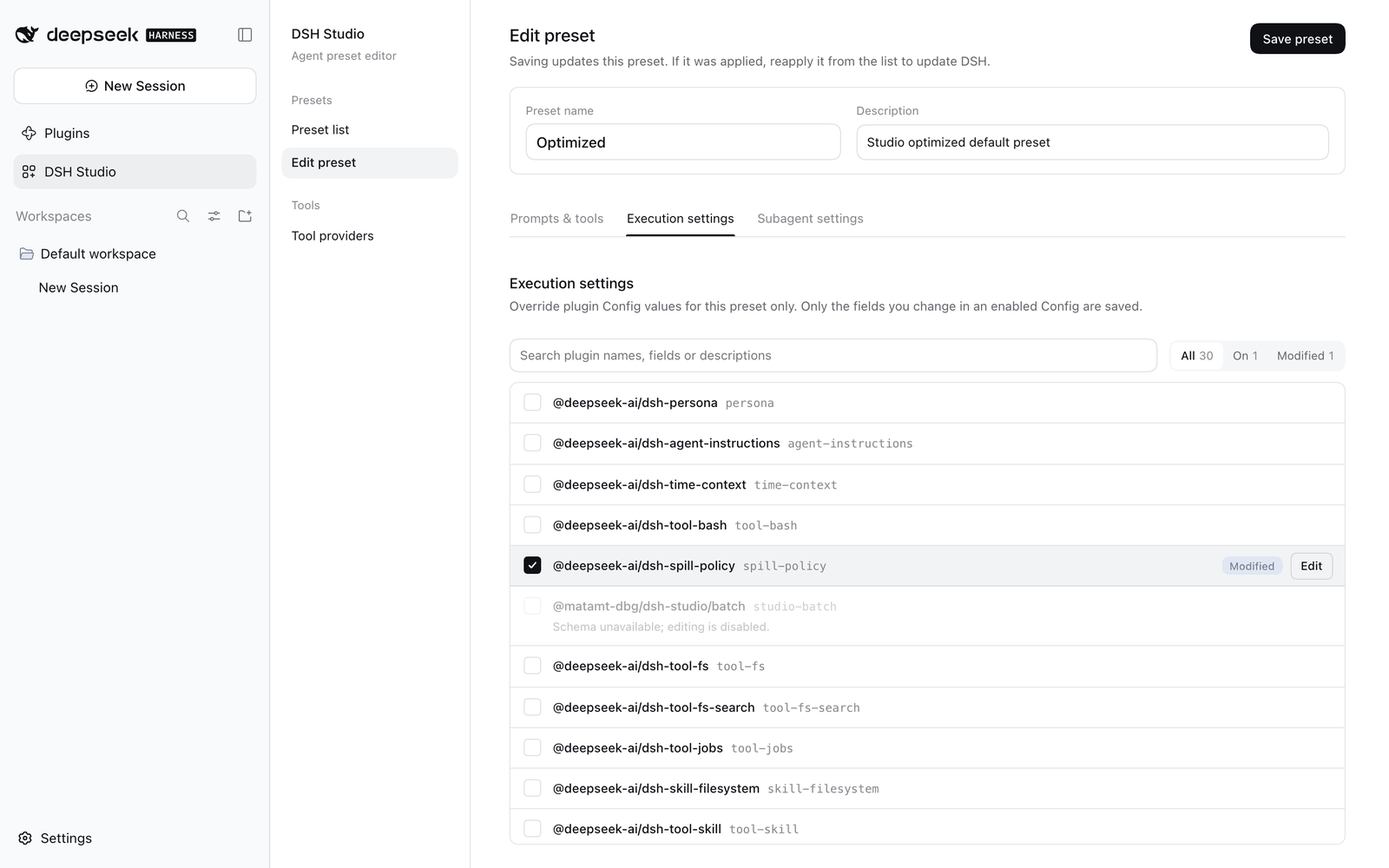
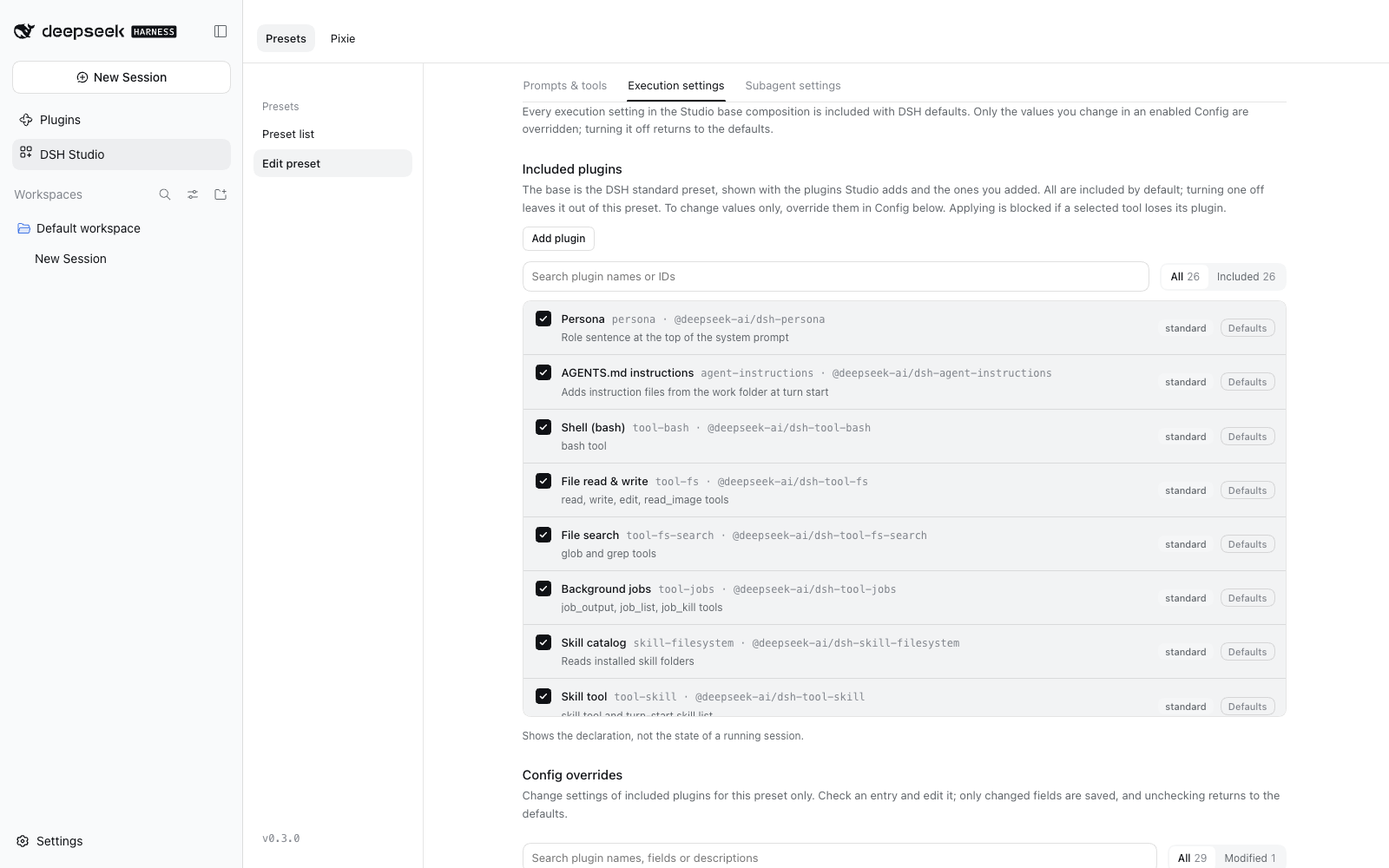
release: 0.3.0

diff --git a/src/optimization-prototype.tsx b/src/optimization-prototype.tsx
@@ -66,7 +66,7 @@ export function OptimizationPrototype({ locale, catalog, catalogError, onPreview
   const agentPage = <RoleEditor key={draftKey} locale={locale} roles={agents} onChange={setAgents} loadModels={presetActions?.models} defaultPersona={defaultPersona} tools={toolChoices} hiddenTools={hiddenFromSubagents} onHiddenToolsChange={setHiddenFromSubagents} delegates={delegates} />;
   const tabs = [
     { id: 'tools', label: t('프롬프트·도구', 'Prompts & tools', '提示词与工具'), content: <PromptToolsPrototype key={draftKey} initialRequest={editing?.request} locale={locale} catalog={catalog} catalogError={catalogError} onPreview={onPreview ? request => onPreview({ ...request, configOverrides, ...(configExclusions.length ? { configExclusions } : {}) }) : undefined} configOverrides={configOverrides} onConfigOverridesChange={setConfigDraft} previewKey={JSON.stringify([configOverrides, configExclusions])} onRequestChange={setRequest} prompt={common.prompt} onPromptChange={value => setCommon(c => ({ ...c, prompt: value }))} provided={provided} onProvidedChange={setProvided} /> },
-    { id: 'convenience', label: t('실행 설정', 'Execution settings', '执行设置'), content: <><SectionHead title={t('실행 설정', 'Execution settings', '执行设置')} description={t('Studio 기준 구성의 실행 설정은 모두 DSH 기본값으로 포함됩니다. 켠 Config에서 바꾼 값만 덮어쓰고, 끄면 기본값으로 돌아갑니다.', 'Every execution setting in the Studio base composition is included with DSH defaults. Only the values you change in an enabled Config are overridden; turning it off returns to the defaults.', 'Studio 基础组成中的执行设置均以 DSH 默认值包含。只覆盖已启用 Config 中修改的值；关闭即恢复默认值')} /><FeatureInclusion locale={locale} entries={catalog?.plugins ?? []} overrides={configOverrides} excluded={configExclusions} origins={catalog?.origins} base={catalog?.base} added={catalog?.added} actions={extensionActions} onChange={next => { setConfigDraft(next.overrides); setConfigExclusions(next.excluded); }} /><ConfigEditor locale={locale} entries={(catalog?.plugins ?? []).filter(entry => !configExclusions.includes(entry.id))} value={configOverrides} onChange={setConfigDraft} /></> },
+    { id: 'convenience', label: t('실행 설정', 'Execution settings', '执行设置'), content: <><SectionHead title={t('실행 설정', 'Execution settings', '执行设置')} description={t('Studio 기준 구성의 실행 설정은 모두 DSH 기본값으로 포함됩니다. 켠 Config에서 바꾼 값만 덮어쓰고, 끄면 기본값으로 돌아갑니다.', 'Every execution setting in the Studio base composition is included with DSH defaults. Only the values you change in an enabled Config are overridden; turning it off returns to the defaults.', 'Studio 基础组成中的执行设置均以 DSH 默认值包含。只覆盖已启用 Config 中修改的值；关闭即恢复默认值')} /><FeatureInclusion locale={locale} entries={catalog?.plugins ?? []} overrides={configOverrides} excluded={configExclusions} origins={catalog?.origins} base={catalog?.base} added={catalog?.added} actions={extensionActions} onChange={next => { setConfigDraft(next.overrides); setConfigExclusions(next.excluded); }} /><SectionHead title={t('Config 덮어쓰기', 'Config overrides', 'Config 覆盖')} description={t('포함된 플러그인의 설정값을 이 프리셋에서만 바꿉니다. 항목을 켜고 설정에서 바꾼 필드만 저장되며, 끄면 기본값으로 돌아갑니다.', 'Change settings of included plugins for this preset only. Check an entry and edit it; only changed fields are saved, and unchecking returns to the defaults.', '仅为此预设修改已包含插件的设置。启用条目并编辑，只保存修改的字段；关闭即恢复默认值')} /><ConfigEditor locale={locale} entries={(catalog?.plugins ?? []).filter(entry => !configExclusions.includes(entry.id))} value={configOverrides} onChange={setConfigDraft} /></> },
     { id: 'agents', label: t('서브에이전트', 'Subagent settings', '子代理设置'), content: agentPage },
   ];
   const tabId = React.useId();

diff --git a/src/preset-manager.tsx b/src/preset-manager.tsx
@@ -81,7 +81,7 @@ export function PresetList({ locale, api, revision, onEdit, onCopy, changes }: {
       {item.missingFeatures && item.missingFeatures.length > 0 && <div className="studio-inline-actions"><Badge tone="warning">{t('기능 누락', 'Missing features', '缺少功能')}</Badge><span className="studio-card-meta">{item.missingFeatures.map(name => featureLabel(name, locale)).join(', ')}</span>
         <Button small disabled={busy || !api || !!item.readOnly} onClick={() => setRecovering(item)}>{t('복구', 'Restore', '恢复')}</Button></div>}
       <p className="studio-card-meta">{t('도구', 'Tools', '工具')} {item.request.tools.length} · {t('서브에이전트 역할', 'Subagent roles', '子代理角色')} {Array.isArray(item.agents) ? item.agents.length : 0}</p>
-      {item.readOnly ? <p className="studio-card-meta studio-card-note">{t('이 프로필에서 쓸 수 있는 모든 도구를 담은 기준 프리셋입니다. 편집하거나 삭제할 수 없습니다.', 'Reference preset with every tool available in this profile. It cannot be edited or deleted.', '包含此配置文件中所有可用工具的基准预设，无法编辑或删除')}</p> : <div className="studio-card-footer">
+      {item.readOnly ? <p className="studio-card-meta studio-card-note">{t('DSH standard 프리셋에 Studio 플러그인과 직접 추가한 플러그인을 더한 기준 프리셋입니다. 편집하거나 삭제할 수 없습니다.', 'Reference preset: DSH standard plus Studio plugins and the ones you added. It cannot be edited or deleted.', '基准预设：DSH standard 加上 Studio 插件和您添加的插件，无法编辑或删除')}</p> : <div className="studio-card-footer">
         <Button small disabled={busy || item.readOnly || item.template || !onEdit} title={item.template ? t('기본 제공 프리셋은 편집할 수 없습니다. 복사해서 고쳐 쓰세요.', 'Built-in presets cannot be edited. Create a copy to customize it.', '内置预设无法编辑，请创建副本后修改') : undefined} onClick={() => onEdit?.(item)}>{t('편집', 'Edit', '编辑')}</Button>
         <Button small disabled={busy || !onCopy} onClick={() => onCopy?.(item)}>{t('복사', 'Create copy', '创建副本')}</Button>
         <Button small disabled={busy || !api || item.readOnly || item.nonDeletable} title={item.nonDeletable ? t('기본 제공 프리셋은 삭제할 수 없습니다.', 'Built-in presets cannot be deleted.', '内置预设无法删除') : undefined} onClick={() => { setDeleting(item); setConfirming(true); }}>{t('삭제', 'Delete', '删除')}</Button>

diff --git a/docs/introduction.ko.md b/docs/introduction.ko.md
@@ -1,0 +1,121 @@
+# DSH Studio 소개
+
+[English](introduction.md) | 한국어
+
+DSH Studio는 DeepSeek Harness(DSH)의 **에이전트 프리셋**을 화면에서 만들고 고치는 플러그인입니다. YAML을 직접 쓰지 않고, 에이전트가 받을 지침·도구·플러그인 설정·서브에이전트 역할을 한곳에서 정한 뒤 DSH에 반영합니다. 자세한 화면 설명은 [사용 가이드](guide.ko.md)에 있습니다.
+
+## 목차
+
+- [무엇을 해결하나](#무엇을-해결하나)
+- [프리셋은 어떻게 만들어지나](#프리셋은-어떻게-만들어지나)
+- [모델이 실제로 받는 것](#모델이-실제로-받는-것)
+- [기본값, 덮어쓰기, 제외](#기본값-덮어쓰기-제외)
+- [도구는 시작 구성일 뿐 차단 목록이 아님](#도구는-시작-구성일-뿐-차단-목록이-아님)
+- [Optimized](#optimized)
+- [바뀌었을 때 Studio가 하는 일](#바뀌었을-때-studio가-하는-일)
+- [Studio가 하지 않는 것](#studio가-하지-않는-것)
+
+## 무엇을 해결하나
+
+DSH 프리셋은 플러그인 목록과 설정을 담은 선언입니다. 강력하지만 다음이 어렵습니다.
+
+- 어떤 도구와 지침이 모델에 전달되는지 미리 보기
+- 기본 프리셋을 조금만 바꾸면서 나머지는 DSH 기본값을 그대로 따르게 하기
+- 도구 설명이나 실행 기본값을 프리셋마다 다르게 하기
+- 서브에이전트를 역할별로 나누어 맡기기
+
+Studio는 이것을 화면으로 다루고, 결과를 Studio 소유의 DSH 프리셋으로 등록합니다. DSH 기본 프리셋이나 프로필의 패키지 목록은 건드리지 않습니다.
+
+## 프리셋은 어떻게 만들어지나
+
+모든 Studio 프리셋은 **Studio Master** 위에 변경분만 얹어 만듭니다.
+
+```text
+DSH standard 프리셋 (실행 중인 DSH가 선언한 그대로)
+  + Studio가 더하는 플러그인   read_batch, spill-policy, tool-cordis, plugin-manager
+  + 직접 추가한 플러그인       실행 설정 → 플러그인 추가
+  ───────────────────────────────────────────────
+  = Studio Master (읽기 전용 기준)
+
+Studio Master
+  − 포함하지 않을 플러그인     실행 설정 → 포함할 플러그인
+  + Config 덮어쓰기            바꾼 필드만
+  + 도구 선택·도구 설명 편집   프롬프트·도구
+  + 추가 지침, persona
+  + subagent_role과 역할       서브에이전트 (standard의 subagent 도구를 대체)
+  ───────────────────────────────────────────────
+  = 내 프리셋 → DSH에 반영 → 새 세션에서 선택
+```
+
+Studio Master가 DSH `standard`를 따르므로, DSH를 업데이트하면 기준도 함께 바뀝니다. 화면의 각 플러그인에는 출처 배지(`standard`, `Studio`, `추가함`)가 붙어 어디서 온 것인지 알 수 있습니다.
+
+## 모델이 실제로 받는 것
+
+세션에서 모델이 받는 내용은 종류에 따라 들어가는 시점이 다릅니다. **프롬프트 미리보기**는 이 중 세 가지를 나눠 보여 줍니다.
+
+| 종류 | 들어가는 시점 | 예 | 미리보기 |
+|---|---|---|---|
+| 시스템 프롬프트 | 매 요청 | persona, 도구 사용 지침, 추가 지침, 계획 모드 안내 | **시스템 프롬프트·도구** |
+| 도구 스키마 | 매 요청 | read, bash, subagent_role | **시스템 프롬프트·도구** |
+| 런타임 컨텍스트 | 매 요청, 시스템 프롬프트 뒤 | 권한·샌드박스 상태, 서브에이전트 위임 안내 | **런타임 컨텍스트** |
+| 턴 시작 메시지 | 턴 시작 | AGENTS.md 지침, 현재 시각, 스킬 목록 | **턴 시작 내용** (예시와 설정 편집) |
+| 도구 결과 뒤 안내 | 파일을 읽거나 고친 뒤 | 하위 폴더의 AGENTS.md | 나오지 않음 |
+| 대화 정리 | 한도에 가까울 때 | 자동 압축 요약, 긴 도구 결과 줄이기 | 나오지 않음 |
+
+AGENTS.md 지침이나 현재 시각은 시스템 프롬프트가 아니라 턴마다 대화 메시지로 들어갑니다. 그래서 내용은 실행할 때 파일과 시각에서 만들어지고, Studio에서는 그 내용을 정하는 설정(`maxBytes`, 지침 파일 후보, `timeZone` 등)을 바꿉니다.
+
+## 기본값, 덮어쓰기, 제외
+
+실행 설정의 각 플러그인은 세 상태 중 하나입니다.
+
+| 상태 | 저장되는 것 | 결과 |
+|---|---|---|
+| **기본값** | 없음 | 플러그인이 DSH 기본값으로 포함됩니다 |
+| **덮어쓰기** | 바꾼 필드만 | 포함되며 그 필드만 바뀝니다. 덮어쓰기를 끄면 기본값으로 돌아갑니다 |
+| **제외** | 제외 목록에 ID | 플러그인이 이 프리셋에서 빠집니다 |
+
+예를 들어 자동 압축을 다루는 방법은 두 가지입니다.
+
+- `compaction-basic`의 `auto`를 `false`로 **덮어쓰기**: 압축 기능과 `/compact`는 남고 자동 실행만 꺼집니다.
+- `compaction-basic`을 **제외**: 압축 기능이 빠지고, 이에 의존하는 `/compact`도 함께 빠집니다.
+
+덮어쓰기를 끄는 것은 "끄기"가 아니라 "기본값으로 돌아가기"입니다. 기능을 빼려면 포함 목록에서 체크를 끕니다.
+
+## 도구는 시작 구성일 뿐 차단 목록이 아님
+
+프리셋에서 고른 도구는 세션의 **시작 도구 구성**입니다.
+
+- 고르지 않은 도구는 세션이 시작될 때 보이지 않습니다.
+- 세션이 시작된 뒤 다른 플러그인이 새 이름으로 등록하는 도구는 DSH 기본 흐름대로 쓸 수 있습니다.
+- 예약 작업처럼 DSH가 세션마다 직접 붙이는 도구는 프리셋 도구 목록에 나오지 않지만, 켜져 있으면 세션에서 쓸 수 있습니다.
+- 고른 도구를 제공하는 플러그인을 빼면 반영 단계에서 막아, 도구가 몰래 사라지지 않게 합니다.
+
+DSH의 승인·파일 접근·서브에이전트 제한 같은 안전 정책은 Studio가 바꾸지 않습니다.
+
+## Optimized
+
+Studio에는 코딩 에이전트용 기본 프리셋 **Optimized**가 들어 있습니다.
+
+- 자주 쓰는 도구 22개로 시작 구성을 고정합니다. 다른 플러그인을 설치해도 선택이 늘어나지 않습니다.
+- 서브에이전트 도구를 `subagent_role` 하나로 합칩니다.
+- 독립적인 읽기를 묶고, 백그라운드 작업을 폴링하지 않고 기다리며, 확인 범위를 작업에 맞추도록 지침과 도구 설명을 다듬었습니다.
+- 대화 압축, AGENTS.md 지침, 스킬 목록 같은 `standard`의 기능은 그대로 포함됩니다.
+
+Optimized는 잠겨 있고 Studio가 시작할 때마다 다시 맞춥니다. 고치려면 복사해서 씁니다. 방법은 [Optimized를 내 작업에 맞게 고치기](guide.ko.md#optimized를-내-작업에-맞게-고치기)를 보세요.
+
+## 바뀌었을 때 Studio가 하는 일
+
+| 상황 | Studio의 동작 |
+|---|---|
+| DSH 업데이트, 플러그인 설치·삭제로 도구나 플러그인이 바뀜 | 다음 시작 때 목록 위에 변경 안내(`+` 추가, `-` 제거, `~` 형식 변경). **확인하고 정리**를 누르기 전에는 프리셋을 바꾸지 않습니다 |
+| 정리를 확인함 | 사라진 항목의 선택·설명·덮어쓰기만 지우고, 반영된 프리셋은 **다시 반영 필요**로 표시합니다 |
+| 수집이 일부 실패함 | 이전 기준을 그대로 두고, 아무것도 지우지 않습니다 |
+| 이전 버전이 기능을 빠뜨리고 반영함 | 카드에 **기능 누락**을 표시하고, **복구**로 확인 후 다시 반영합니다 |
+| 이미 실행 중인 세션 | 프리셋 편집은 자동으로 적용되지 않습니다. 새 세션부터 적용됩니다 |
+
+## Studio가 하지 않는 것
+
+- DSH 본체나 다른 프리셋을 수정하지 않습니다.
+- 패키지를 설치하지 않습니다. 플러그인은 프로필에 먼저 설치해야 합니다.
+- 압축 알고리즘이나 도구 동작을 바꾸지 않습니다. 설명과 설정만 바꿉니다.
+- 실행 중인 세션을 다시 구성하지 않습니다.

diff --git a/docs/introduction.md b/docs/introduction.md
@@ -1,0 +1,121 @@
+# DSH Studio introduction
+
+English | [한국어](introduction.ko.md)
+
+DSH Studio is a plugin for building and editing DeepSeek Harness (DSH) **agent presets** on screen. Instead of writing YAML, you set the instructions, tools, plugin settings and subagent roles an agent gets in one place, then apply the result to DSH. The [user guide](guide.md) walks through each screen.
+
+## Contents
+
+- [What it solves](#what-it-solves)
+- [How a preset is built](#how-a-preset-is-built)
+- [What the model actually receives](#what-the-model-actually-receives)
+- [Defaults, overrides and exclusions](#defaults-overrides-and-exclusions)
+- [Tools are a starting set, not a block list](#tools-are-a-starting-set-not-a-block-list)
+- [Optimized](#optimized)
+- [What Studio does when things change](#what-studio-does-when-things-change)
+- [What Studio does not do](#what-studio-does-not-do)
+
+## What it solves
+
+A DSH preset is a declaration of plugins and their settings. It is powerful, but some things are hard:
+
+- seeing in advance which tools and instructions reach the model;
+- changing a stock preset a little while everything else keeps following DSH defaults;
+- giving each preset its own tool descriptions and execution defaults;
+- splitting delegation across subagent roles.
+
+Studio handles these on screen and registers the result as a Studio-owned DSH preset. It does not touch DSH's own presets or your profile's package list.
+
+## How a preset is built
+
+Every Studio preset is Studio Master plus the differences you choose.
+
+```text
+DSH standard preset (as the running DSH declares it)
+  + plugins Studio adds        read_batch, spill-policy, tool-cordis, plugin-manager
+  + plugins you add            Execution settings → Add plugin
+  ───────────────────────────────────────────────
+  = Studio Master (read-only base)
+
+Studio Master
+  − plugins you leave out      Execution settings → Included plugins
+  + Config overrides           changed fields only
+  + tool selection and edits   Prompts & tools
+  + additional instructions, persona
+  + subagent_role and roles    Subagent settings (replaces standard's subagent tools)
+  ───────────────────────────────────────────────
+  = your preset → Apply to DSH → choose it in a new session
+```
+
+Because Studio Master follows DSH `standard`, the base moves with DSH updates. Each plugin on screen carries an origin badge (`standard`, `Studio`, `Added`).
+
+## What the model actually receives
+
+What a session sends the model arrives at different times depending on its kind. **Preview prompt** shows three of them separately.
+
+| Kind | When | Examples | Preview |
+|---|---|---|---|
+| System prompt | every request | persona, tool usage guidance, additional instructions, plan mode | **System prompt & tools** |
+| Tool schemas | every request | read, bash, subagent_role | **System prompt & tools** |
+| Runtime context | every request, after the system prompt | permissions and sandbox state, delegation notes | **Runtime context** |
+| Turn-start messages | each turn start | AGENTS.md instructions, current time, skill list | **Turn start** (examples and settings) |
+| Notes after tool results | after reading or editing files | a subfolder AGENTS.md | not shown |
+| Conversation upkeep | near the context limit | compaction summaries, trimmed tool results | not shown |
+
+AGENTS.md instructions and the current time are not part of the system prompt; they enter as conversation messages each turn. Their text comes from files and the clock at run time, so in Studio you change the settings that shape it (`maxBytes`, instruction file candidates, `timeZone` and so on).
+
+## Defaults, overrides and exclusions
+
+Each plugin in Execution settings is in one of three states.
+
+| State | What is saved | Result |
+|---|---|---|
+| **Defaults** | nothing | the plugin is included with DSH defaults |
+| **Override** | changed fields only | included, with only those fields changed; turning the override off returns to the defaults |
+| **Excluded** | its ID in the exclusion list | the plugin is left out of this preset |
+
+For example, there are two ways to handle automatic compaction:
+
+- **Override** `auto` to `false` on `compaction-basic`: compaction and `/compact` stay; only the automatic run stops.
+- **Exclude** `compaction-basic`: compaction leaves, and `/compact`, which depends on it, leaves too.
+
+Turning an override off means "back to the default", not "off". To leave a feature out, uncheck it in Included plugins.
+
+## Tools are a starting set, not a block list
+
+The tools a preset selects are the session's **starting tool set**.
+
+- Unselected tools are hidden when the session starts.
+- Tools another plugin registers under a new name after the session starts follow DSH's normal flow and can be used.
+- Tools DSH attaches to each session directly, such as schedules, do not appear in the preset tool list but can be used when enabled.
+- Leaving out a plugin that provides a selected tool is blocked at apply time, so tools never disappear silently.
+
+Studio does not change DSH's safety policies such as approvals, file access and subagent limits.
+
+## Optimized
+
+Studio ships **Optimized**, a built-in preset for coding agents.
+
+- It fixes a starting set of 22 everyday tools; installing more plugins never enlarges the selection.
+- It folds subagent tools into a single `subagent_role`.
+- Its instructions and tool descriptions are tuned so the model batches independent reads, waits on background work instead of polling, and keeps checks proportional to the task.
+- `standard` features such as compaction, AGENTS.md instructions and the skill catalog stay included.
+
+Optimized is locked and realigned each time Studio starts. Copy it to customize; see [Adapt Optimized to your work](guide.md#adapt-optimized-to-your-work).
+
+## What Studio does when things change
+
+| Situation | What Studio does |
+|---|---|
+| A DSH update or a plugin install or removal changes tools or plugins | On the next start, a notice above the list (`+` added, `-` removed, `~` schema changed). Presets do not change until you select **Confirm and clean** |
+| You confirm the cleanup | Only the missing items' selections, descriptions and overrides are removed; applied presets are marked **Needs reapply** |
+| Part of the collection fails | The previous baseline is kept and nothing is deleted |
+| An earlier version applied a preset without some features | The card shows **Missing features**; **Restore** reapplies after you confirm |
+| A session is already running | Preset edits are not applied to it; they take effect in new sessions |
+
+## What Studio does not do
+
+- It does not modify DSH itself or other presets.
+- It does not install packages; install plugins in the profile first.
+- It does not change compaction algorithms or tool behavior; it changes descriptions and settings.
+- It does not reconfigure running sessions.

diff --git a/docs/guide.md b/docs/guide.md
@@ -2,7 +2,7 @@
 
 English | [한국어](guide.ko.md)
 
-DSH Studio is a page inside the DeepSeek Harness web GUI for building **agent presets**: which tools an agent sees, what instructions it starts with, how its plugins are configured, and which specialist subagents it can delegate to. A preset you apply appears in DSH's preset picker for new sessions.
+DSH Studio is a page inside the DeepSeek Harness web GUI for building **agent presets**: which tools an agent sees, what instructions it starts with, how its plugins are configured, and which specialist subagents it can delegate to. A preset you apply appears in DSH's preset picker for new sessions. For the overall model, read the [introduction](introduction.md) first.
 
 - [Install and open Studio](#install-and-open-studio)
 - [Preset list](#preset-list)
@@ -104,6 +104,8 @@ Edited tools are marked **Modified**. Changes apply to this preset only.
 - **Runtime context**: the current state appended after the system prompt on every request (permissions, sandbox and so on), by plugin. It depends on session state, so the values are examples.
 - **Turn start**: the AGENTS.md instructions, current time and skill list added as conversation messages at each turn. They are examples made with the folder and time Studio runs in now. The text comes from files or the clock and cannot be edited; the settings that shape it (`timeZone`, `maxBytes`, instruction file candidates and so on) are editable right below. They are the same values as Execution settings, and **Reset** returns to the default.
 
+![Turn start](images/en/preview-turn-start.png)
+
 Content that appears only while running, such as notes after tool results (a subfolder AGENTS.md) or compaction summaries, is not previewed. If you change settings while the preview is open, it tells you to run it again.
 
 ### Execution settings
@@ -112,7 +114,13 @@ Content that appears only while running, such as notes after tool results (a sub
 
 Execution settings has two parts.
 
+![Included plugins with automatic compaction left out](images/en/plugin-exclusion.png)
+
 **Included plugins**: every plugin in Studio Master is included in the preset by default. Each row shows its origin (`standard`, `Studio`, `Added`) and state (**Defaults**, **Override**, **Excluded**). Uncheck a row to leave that plugin out of this preset. Plugins that need it leave with it (removing automatic compaction also removes `/compact`). Applying is blocked if a selected tool loses its plugin. **Add plugin** adds or removes a package installed in your profile, by name, in Studio Master. Activation is checked first, and a failure keeps the previous state.
+
+![Add plugin](images/en/add-plugin.png)
+
+![Config overrides](images/en/config-overrides.png)
 
 **Config**: override values of included plugins for this preset only — for example, how much tool output stays inline before it is saved to a file (`spill-policy`). Check an entry and **Edit** its fields; only changed fields are saved, and unchecking returns to the defaults. Leaving a plugin out happens in Included plugins above. To turn off only automatic compaction, override `auto` to `false` here (`/compact` stays). Plugins whose settings cannot be read are shown disabled, and so are the `tool-subagent` Configs, which `subagent_role` replaces.
 

diff --git a/README.md b/README.md
@@ -67,7 +67,7 @@ Restart the web GUI or the app, then open **DSH Studio** from the sidebar. Each 
 |---|---|---|
 | ![Tools](docs/images/en/tools.png) | ![Preview](docs/images/en/prompt-preview.png) | ![Roles](docs/images/en/role-editor.png) |
 
-**User guide: [English](docs/guide.md) · [한국어](docs/guide.ko.md)**
+**Introduction: [English](docs/introduction.md) · [한국어](docs/introduction.ko.md)** · **User guide: [English](docs/guide.md) · [한국어](docs/guide.ko.md)**
 
 ## Quick start
 
@@ -78,7 +78,7 @@ Restart the web GUI or the app, then open **DSH Studio** from the sidebar. Each 
 
 Presets are stored per profile in `studio-data/`. Applying a preset registers a Studio-owned DSH agent preset; it never edits other presets or the profile's packages.
 
-A preset runs only with the tools it selects. If the profile does not provide one of them (for example `load_workspace_dependencies` outside the desktop app), applying or starting the preset fails instead of silently dropping the tool. See [Tools that depend on your profile](docs/guide.md#tools-that-depend-on-your-profile).
+The tools a preset selects are the session's starting tool set. If the profile does not provide one of them (for example `load_workspace_dependencies` outside the desktop app), applying the preset fails instead of silently dropping the tool. Tools that DSH or other plugins add to a running session, such as schedules, stay usable. See [Tools that depend on your profile](docs/guide.md#tools-that-depend-on-your-profile).
 
 ## Development
 
